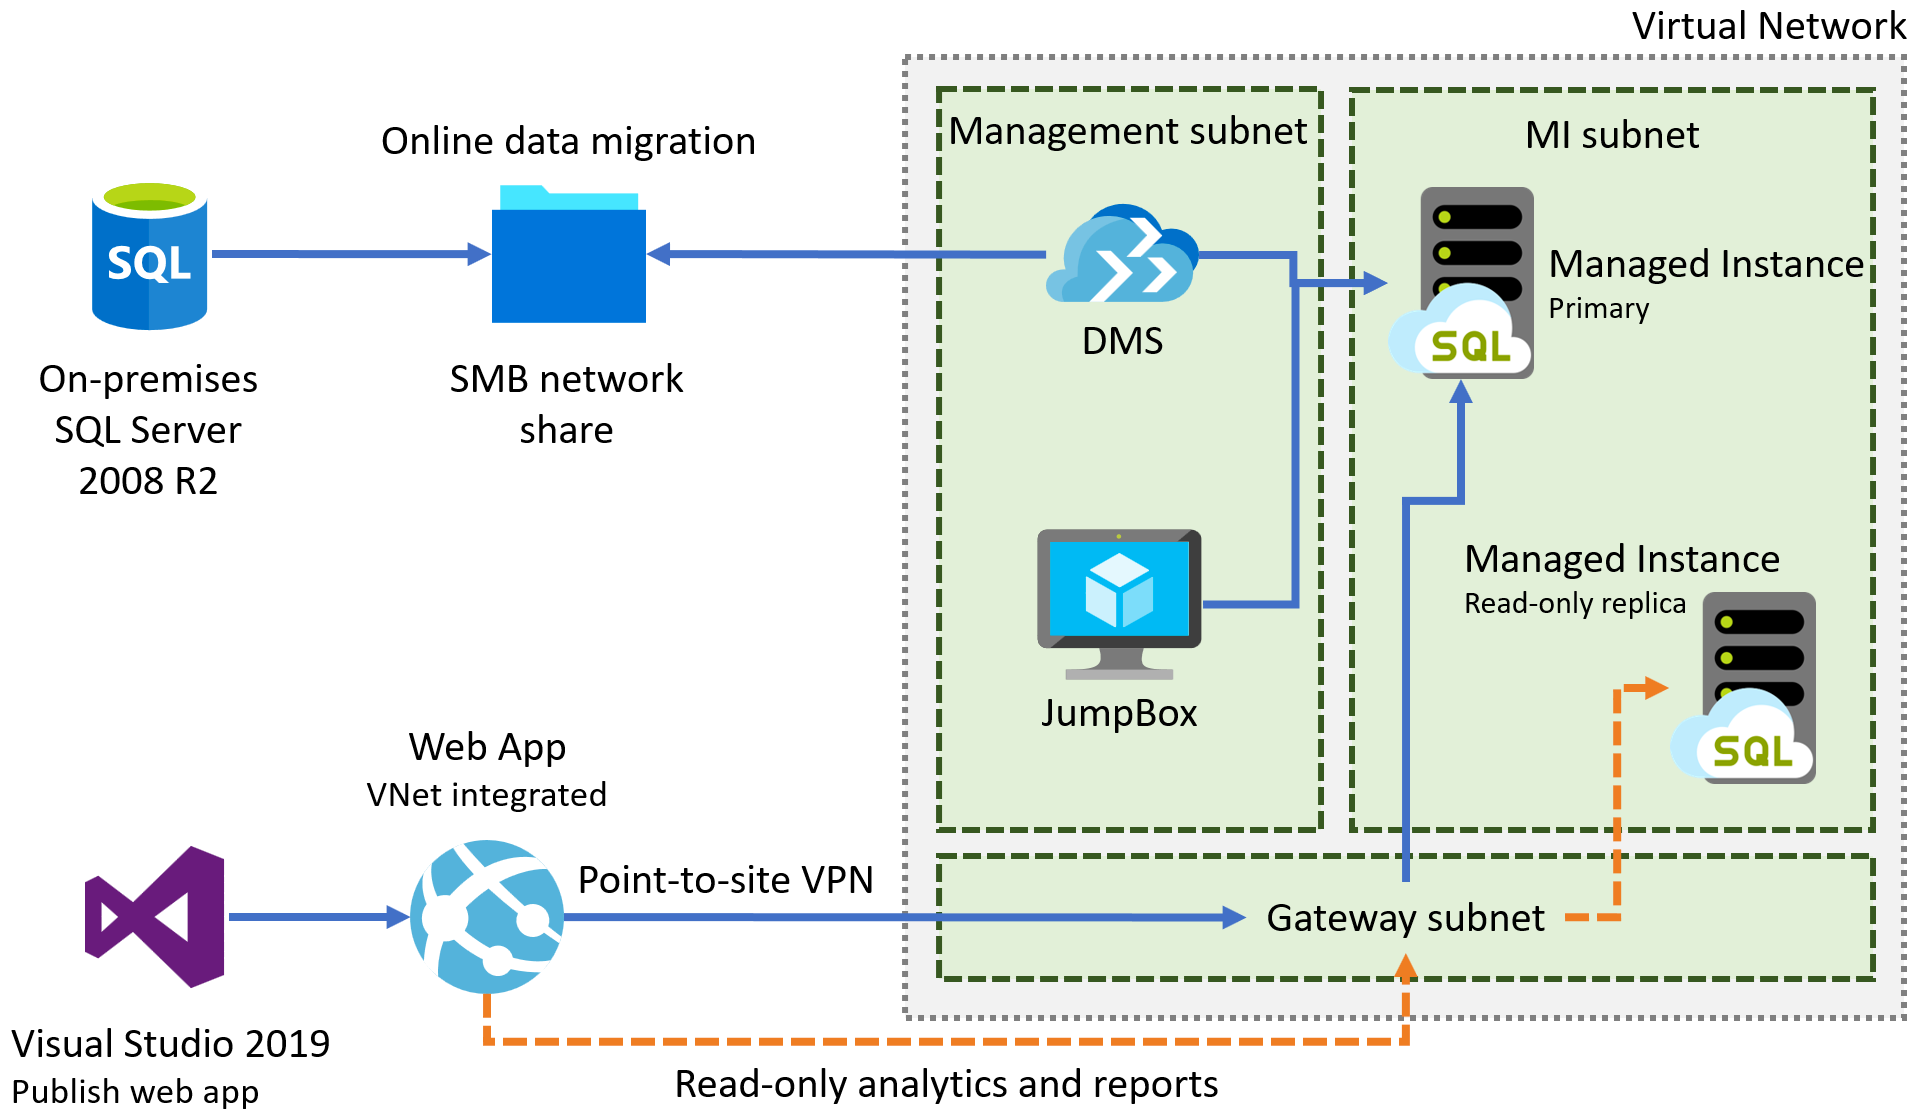
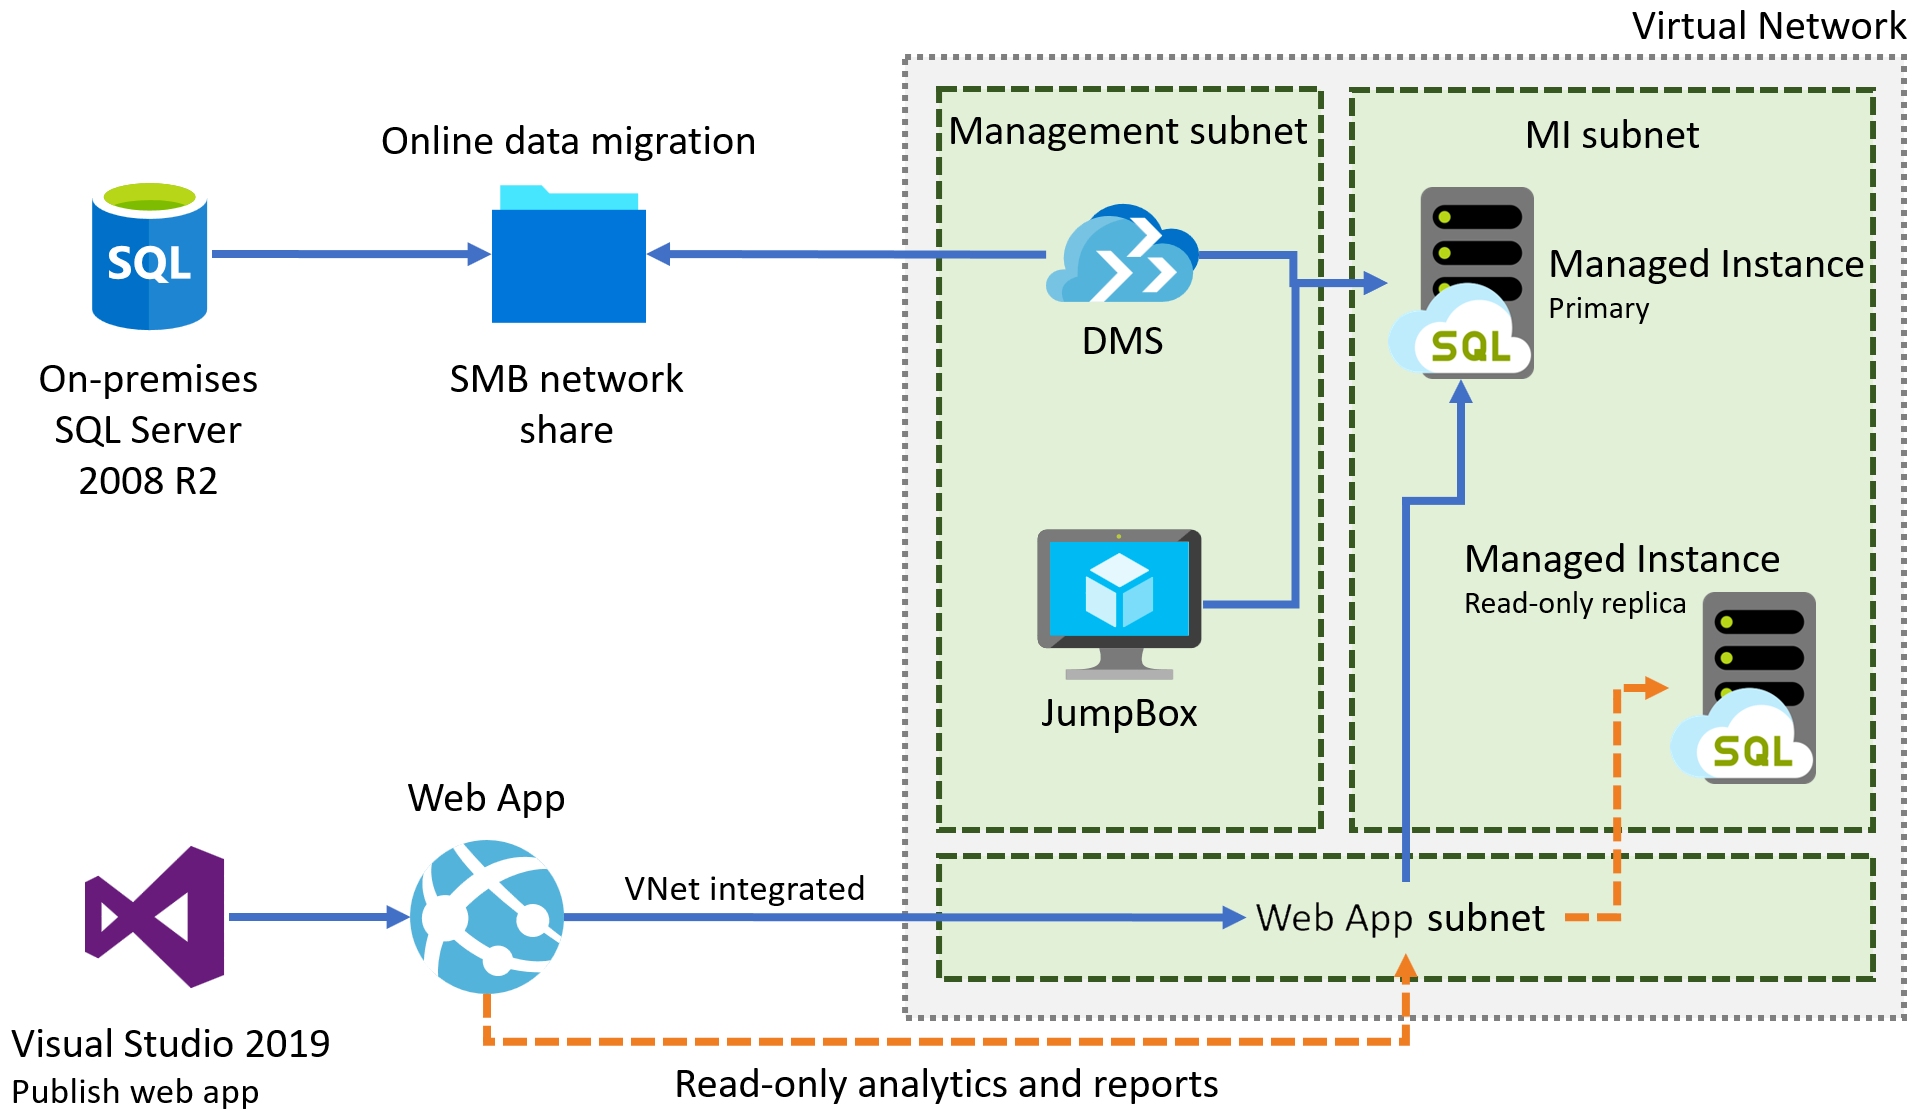
Updates and Fixes

Changed region(s): [[0.281, 0.7603, 0.4683, 0.8211], [0.1873, 0.6386, 0.3122, 0.7299], [0.6556, 0.7907, 0.7492, 0.8515]]

diff --git a/Hands-on lab/HOL step-by-step - Migrating SQL databases to Azure_05.md b/Hands-on lab/HOL step-by-step - Migrating SQL databases to Azure_05.md
@@ -70,15 +70,17 @@ In this task, you perform an assessment on the `WideWorldImporters` database tha
 
 In this task, you use the Microsoft Data Migration Assistant (DMA) to assess the `WideWorldImporters` database against Azure SQL Database (Azure SQL DB). The assessment provides a report about any feature parity and compatibility issues between the on-premises database and the Azure SQL DB service.
 
-1. Launch DMA from the Windows Start menu by typing "data migration" into the search bar and then selecting **Microsoft Data Migration Assistant** in the search results.
+1. Download and install DMA using this link <https://aka.ms/DMAdownload>
+
+1. Launch DMA from the Windows Start menu by selecting **Microsoft Data Migration Assistant** .
 
    ![In the Windows Start menu, "data migration" is entered into the search bar, and Microsoft Data Migration Assistant is highlighted in the Windows start menu search results.](media/windows-start-menu-dma.png "Data Migration Assistant")
 
-2. In the DMA dialog, select **+** from the left-hand menu to create a new project.
+1. In the DMA dialog, select **+** from the left-hand menu to create a new project.
 
    ![The new project icon is highlighted in DMA.](media/dma-new.png "New DMA project")
 
-3. In the New project pane, set the following:
+1. In the New project pane, set the following:
 
    - **Project type**: Select **Assessment**.
    - **Project name**: Enter `ToAzureSqlDb`
@@ -88,13 +90,13 @@ In this task, you use the Microsoft Data Migration Assistant (DMA) to assess the
 
    ![The new project settings for doing a SQL Server to Azure SQL Database migration assessment are entered into the dialog.](media/dma-new-project-to-azure-sql-db.png "New project settings")
 
-4. Select **Create**.
+1. Select **Create**.
 
-5. On the **Options** screen, ensure **Check database compatibility** and **Check feature parity** are checked and then select **Next**.
+1. On the **Options** screen, ensure **Check database compatibility** and **Check feature parity** are checked and then select **Next**.
 
    ![Check database compatibility and check feature parity are checked on the Options screen.](media/dma-options.png "DMA options")
 
-6. On the **Sources** screen, enter the following into the **Connect to a server** dialog that appears on the right-hand side:
+1. On the **Sources** screen, enter the following into the **Connect to a server** dialog that appears on the right-hand side:
 
    - **Server name**: Select **SQL2008-SUFFIX**.
    - **Authentication type**: Select **SQL Server Authentication**.
@@ -105,17 +107,17 @@ In this task, you use the Microsoft Data Migration Assistant (DMA) to assess the
 
    ![In the Connect to a server dialog, the values specified above are entered.](https://raw.githubusercontent.com/SpektraSystems/MCW-Migrating-SQL-databases-to-Azure/stage/Hands-on%20lab/media/dma2.png "Connect to a server")
 
-7. Select **Connect**.
+1. Select **Connect**.
 
-8. On the **Add sources** dialog that appears next, check the box for **WideWorldImporters** and select **Add**.
+1. On the **Add sources** dialog that appears next, check the box for **WideWorldImporters** and select **Add**.
 
    ![The WideWorldImporters box is checked on the Add sources dialog.](https://raw.githubusercontent.com/CloudLabs-MCW/MCW-Migrating-SQL-databases-to-Azure/fix/Hands-on%20lab/media/dm1.png "Add sources")
 
-9. Select **Start Assessment**.
+1. Select **Start Assessment**.
 
    ![Start assessment](media/dma-start-assessment-to-azure-sql-db.png "Start assessment")
 
-10. Review the migration assessment to determine the possibility of migrating to Azure SQL DB.
+1. Review the migration assessment to determine the possibility of migrating to Azure SQL DB.
 
     ![For a target platform of Azure SQL DB, feature parity shows two features that are not supported in Azure SQL DB. The Service broker feature is selected on the left and on the right Service Broker feature is not supported in Azure SQL Database is highlighted.](media/dma-feature-parity-service-broker-not-supported.png "Database feature parity")
 

diff --git a/Hands-on lab/HOL step-by-step - Migrating SQL databases to Azure_06.md b/Hands-on lab/HOL step-by-step - Migrating SQL databases to Azure_06.md
@@ -141,9 +141,7 @@ To perform online data migrations, DMS looks for database and transaction log ba
 
 1. You are done using the Sql2008-[SUFFIX] VM. Close any open windows and log off the Server. The remaining tasks of this hands-on lab will be done using the Lab VM.
 
-## Task 4: Check SQL Server 2008 VM connection information
-
-In this task, you will verify Sql2008-[SUFFIX] VM from the **Environment Details** tab in the guide.
+    ![Screenshot of the log off option from SQL Server.](media/sql-logoff.png "log off SQL server")
 
 1. From the **Environment Details** tab in the guide, copy the `SQL Server VM DNS Name`.
 
@@ -154,9 +152,9 @@ In this task, you will verify Sql2008-[SUFFIX] VM from the **Environment Details
 
     Pinging sqlvmdns323163.centralus.cloudapp.azure.com [13.89.50.142] with 32 bytes of data:
 
-1. Copy the IP address that is shown for the next task.
+1. Copy the IP address from the output for the next task.
 
-## Task 5: Create and run an online data migration project
+## Task 4: Create and run an online data migration project
 
 In this task, you create a new online data migration project in DMS for the `WideWorldImporters` database.
 
@@ -239,7 +237,7 @@ In this task, you create a new online data migration project in DMS for the `Wid
 
     ![In the migration monitoring window, a status of Log shipping in progress is highlighted.](media/dms-migration-wizard-status-log-files-uploading.png "Migration status")
 
-## Task 6: Perform migration cutover
+## Task 5: Perform migration cutover
 
 Since you performed an "online data migration," the migration wizard continuously monitors the SMB network share for newly added log backup files. Online migrations enable any updates on the source database to be captured until you initiate the cut over to the SQL MI database. In this task, you add a record to one of the database tables, backup the logs, and complete the migration of the `WideWorldImporters` database by cutting over to the SQL MI database.
 
@@ -321,7 +319,7 @@ Since you performed an "online data migration," the migration wizard continuousl
 
 16. You have successfully migrated the `WideWorldImporters` database to Azure SQL Managed Instance.
 
-## Task 7: Verify database and transaction log migration
+## Task 6: Verify database and transaction log migration
 
 In this task, you connect to the SQL MI database using SSMS and quickly verify the migration.
 
@@ -361,3 +359,5 @@ In this task, you connect to the SQL MI database using SSMS and quickly verify t
 1. Select **Execute** on the SSMS toolbar to run the query. Observe the records contained within the `Game` table, including the new `Space Adventure` game you added after initiating the migration process.
 
     ![In the new query window, the query above has been entered, and in the results pane, the new Space Adventure game is highlighted.](media/ssms-query-game-table.png "SSMS Query")
+
+1. Select next on the guide for the next exercise.

diff --git a/Hands-on lab/HOL step-by-step - Migrating SQL databases to Azure_03.md b/Hands-on lab/HOL step-by-step - Migrating SQL databases to Azure_03.md
@@ -1,4 +1,4 @@
-## Solution architecture
+# Solution architecture
 
 Below is a diagram of the solution architecture you implement in this lab. Please study this carefully to understand the whole of the solution as you are working on the various components.
 
@@ -6,7 +6,7 @@ Below is a diagram of the solution architecture you implement in this lab. Pleas
 
 The solution begins with using the Microsoft Data Migration Assistant (DMA) to perform assessments of feature parity and compatibility of the on-premises SQL Server 2008 R2 database. DMA assessments are performed against Azure SQL Database (Azure SQL DB) and Azure SQL Managed Instance (SQL MI). The goal is to migrate the `WideWorldImporters` database into an Azure PaaS offering with minimal or no application changes. After completing the assessments and reviewing the findings, the SQL Server 2008 R2 database is migrated into SQL MI using the Azure Database Migration Service's online data migration option. The online data migration feature of DMS allows the database migration to happen with minimal downtime, using a backup and transaction logs stored in an SMB network share.
 
-The web app is deployed to an Azure App Service Web App using Visual Studio 2019. Once the migrated database's cutover is complete, VNet integration for the `WideWorldImporters` web application is configured. This integration allows the web app to connect to the SQL MI VNet through a virtual network gateway using a point-to-site VPN. The web app's connection strings are updated to point to the new SQL MI database.
+The web app is deployed to an Azure App Service Web App using Visual Studio 2019. Once the migrated database's cutover is complete, VNet integration for the `WideWorldImporters` web application is configured. This integration allows the web app to connect to the SQL MI hosted within its Subnet. The web app's connection strings are updated to point to the new SQL MI database.
 
 In SQL MI, several features of Azure SQL are examined. Azure Defender for SQL is enabled, and Data Discovery and Classification is used to understand better the data and potential compliance issues with data in the database. The Azure Defender for SQL Vulnerability Assessment tool is used to identify potential security vulnerabilities and problems in the database. Those issues listed in the assessment report are used to mitigate one finding by enabling Transparent Data Encryption in the database. Dynamic Data Masking (DDM) is used to prevent sensitive data from appearing when querying the database. Finally, Read Scale-out is used to point reports on WWI's web app to a read-only secondary, allowing reporting to occur without impacting the primary database's performance.
 

diff --git a/Hands-on lab/HOL step-by-step - Migrating SQL databases to Azure_08.md b/Hands-on lab/HOL step-by-step - Migrating SQL databases to Azure_08.md
@@ -25,10 +25,10 @@ In this task, you add the networking configuration to your App Service to enable
    - **Virtual Network**: Select the vnet-sqlmi--cus.
    - **Subnet**: Select any existing subnet.
   > **Note**: If you are not able to select any existing subnet then follow the below steps.
-   - Select the create new subnet option and enter name as WebappsubnetSUFFIX. Select Virtual Network address block from the drop down list. In the subnet address block enter new address block 10.0.xx.0/23 for the subnet, Make sure it is not overlapping other subnet's address.
+   - Select the create new subnet option and enter name as WebappsubnetSUFFIX. Select Virtual Network address block from the drop down list. In the subnet address block enter new address block 10.0.xx.0/24 for the subnet, Make sure it is not overlapping other subnet's address.
   > **Note**: If the address space is overlapping with other subnets you may need to changes the address space.
 
-   ![The values specified above are entered into the Network Feature Status dialog.](https://raw.githubusercontent.com/CloudLabs-MCW/MCW-Migrating-SQL-databases-to-Azure/fix/Hands-on%20lab/media/newvnet.png "Network Feature Status configuration")
+   ![The values specified above are entered into the Network Feature Status dialog.](media/newvnet2.png "Network Feature Status configuration")
 
 5. Within a few minutes, the VNet is added, and your App Service is restarted to apply the changes. Select refresh to confirm that the Vnet is connected or not.
 
